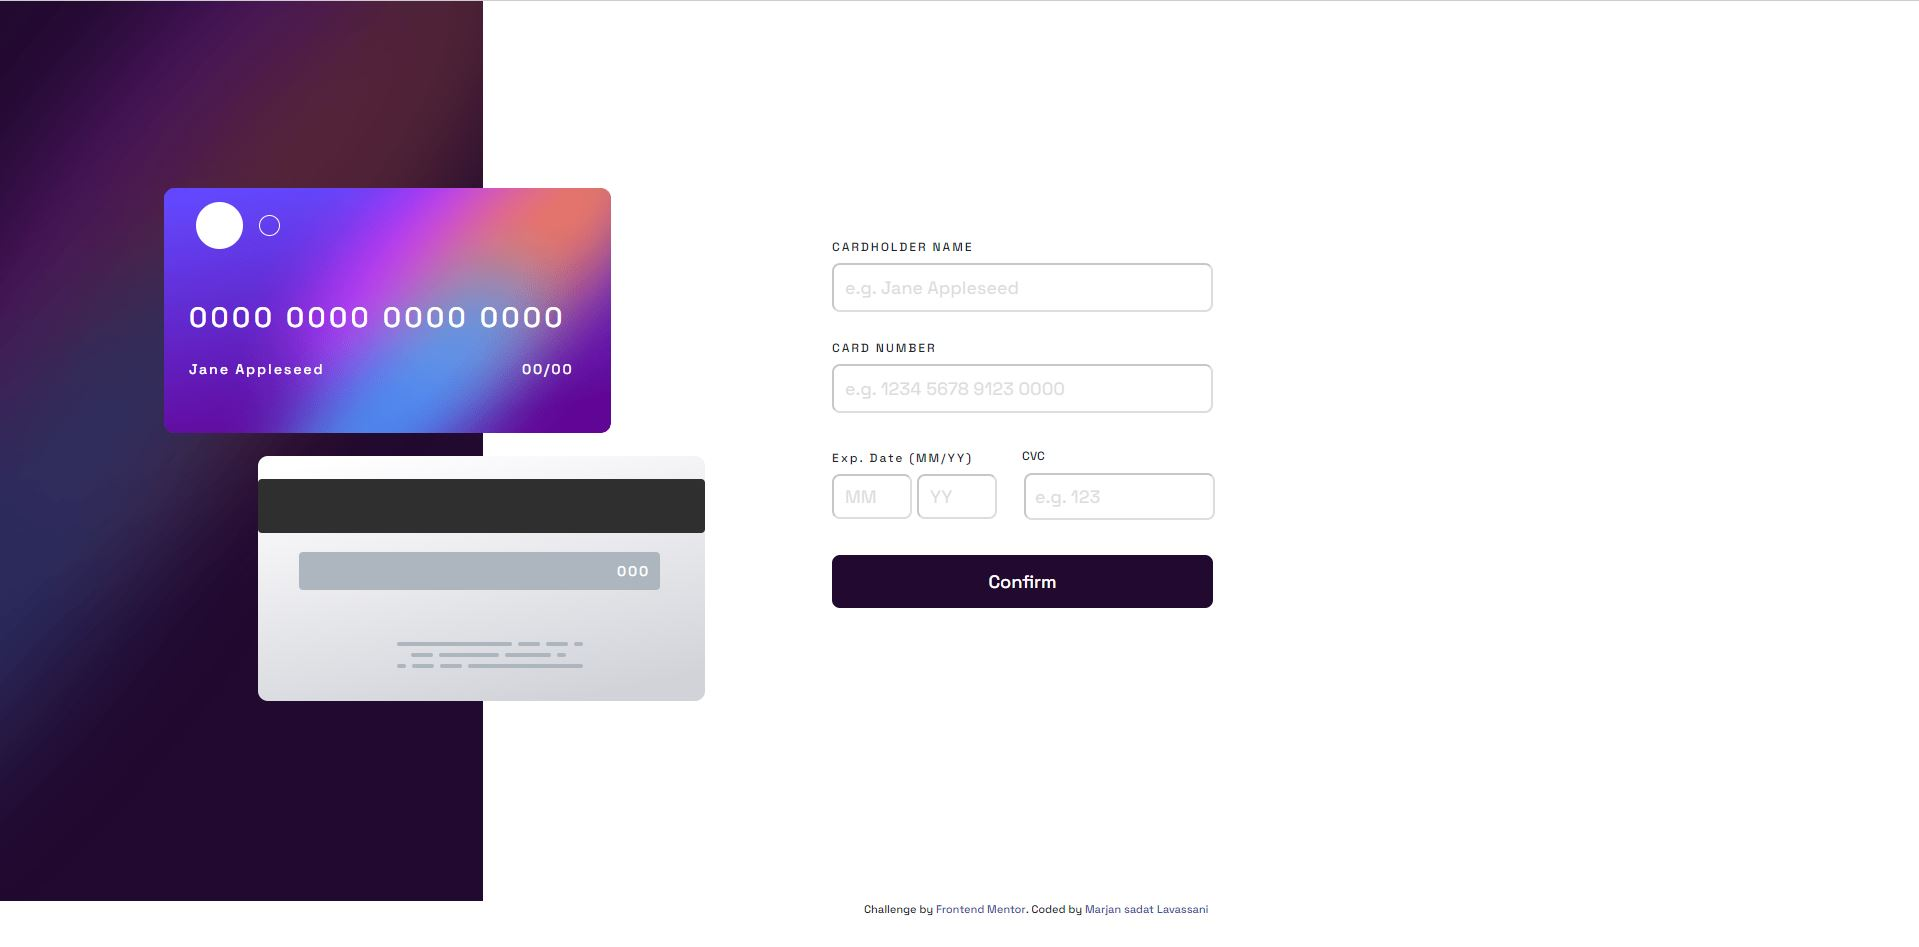
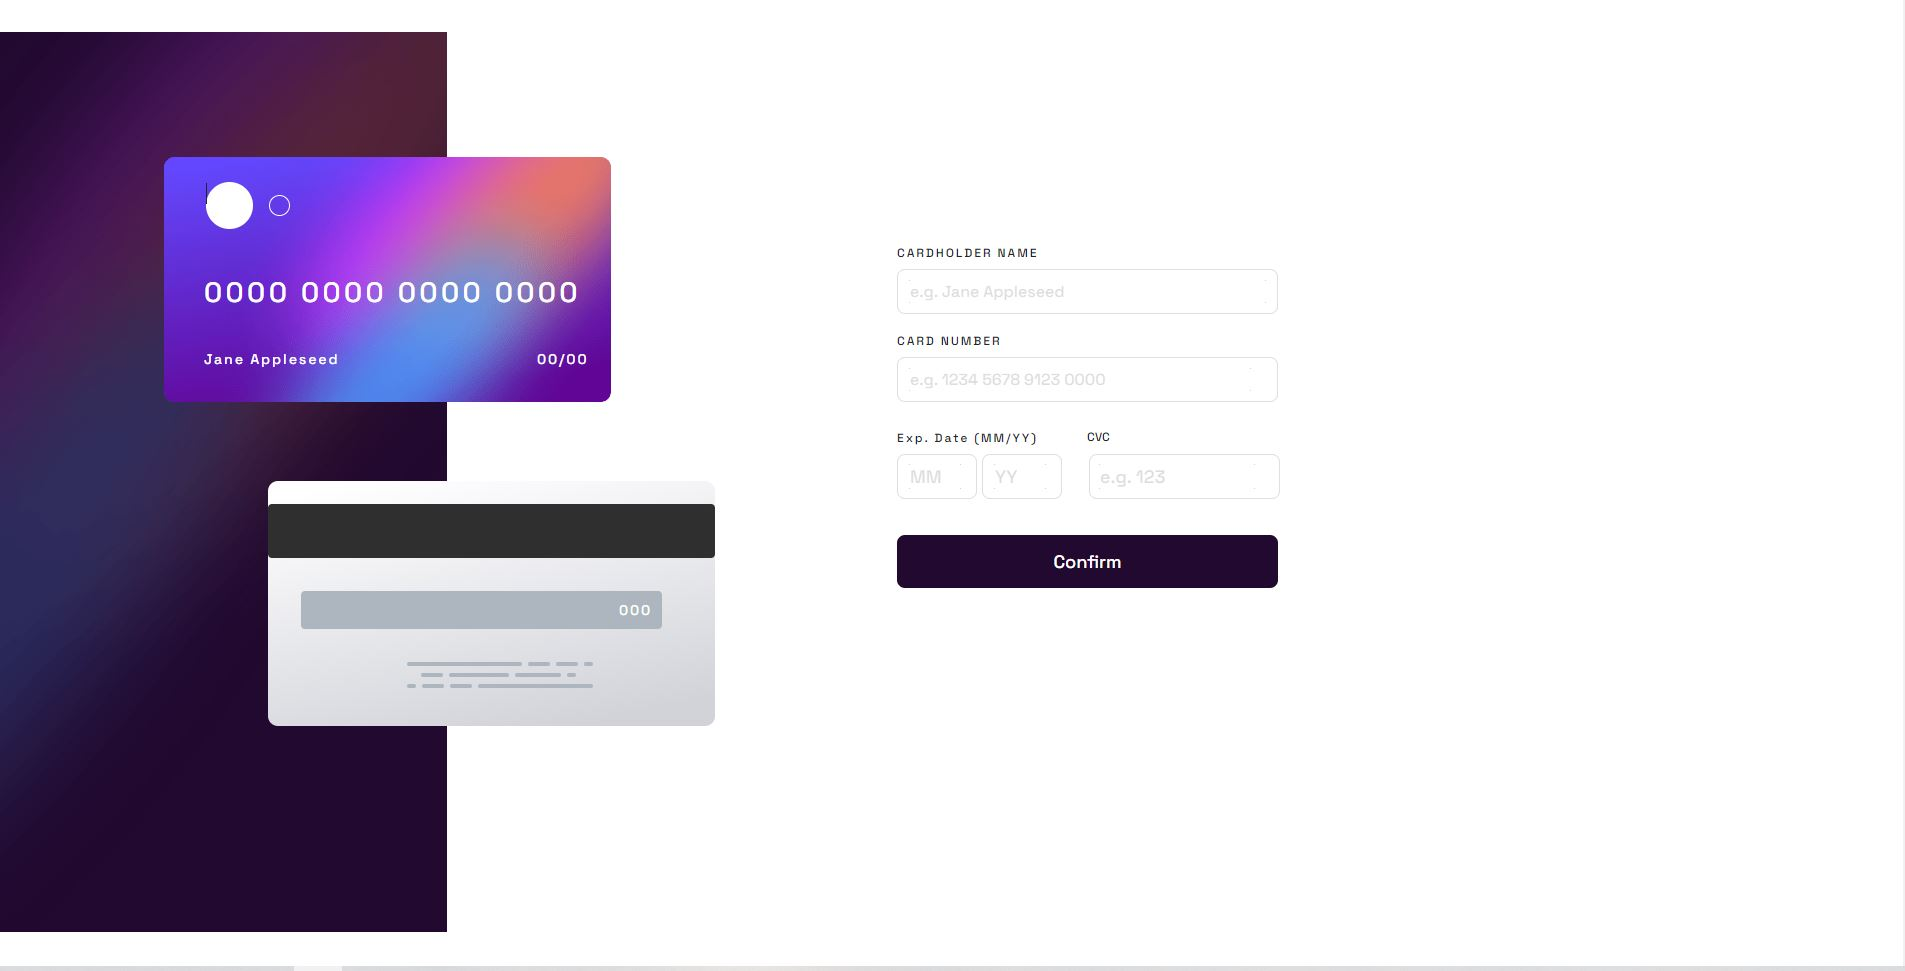
screen shot

Changed region(s): [[0.0, 0.0, 1.0, 1.0], [0.4336, 0.245, 0.6814, 0.6431]]

diff --git a/main.css b/main.css
@@ -60,7 +60,7 @@ body {
     align-items: center;
     justify-content: space-between;
     margin-left: 32px;
-    
+
 }
 
 .big-Circle {
@@ -88,7 +88,7 @@ body {
     color: #fff;
     top: 60px;
     left: 30px;
-position: relative;
+    position: relative;
 }
 
 .name-jane {
@@ -103,9 +103,9 @@ position: relative;
     display: flex;
     flex-direction: row;
     justify-content: space-between;
-top:100px;
-left: 30px;
-position: relative;
+    top: 100px;
+    left: 30px;
+    position: relative;
 }
 
 .Card-date {
@@ -356,9 +356,9 @@ position: relative;
         height: 30px;
         border-radius: 50px;
         background: #fff;
-        
-        
-        
+
+
+
     }
 
     .small-Circle {
@@ -379,7 +379,7 @@ position: relative;
         width: 239px;
         left: 20px;
         bottom: 20px;
-        
+
     }
 
     .name-jane {
@@ -393,8 +393,8 @@ position: relative;
         color: #fff;
         display: flex;
         flex-direction: row;
-    top: 60px;
-    left: 18px;
+        top: 60px;
+        left: 18px;
         position: relative;
 
 

diff --git a/README.md b/README.md
@@ -3,7 +3,7 @@
 
 ### screen shot
 
-![Screen Shot](./Screenshot.JPG)
+![Screen Shot](./SCREENSHOT.JPG)
 
 ### Links
 
